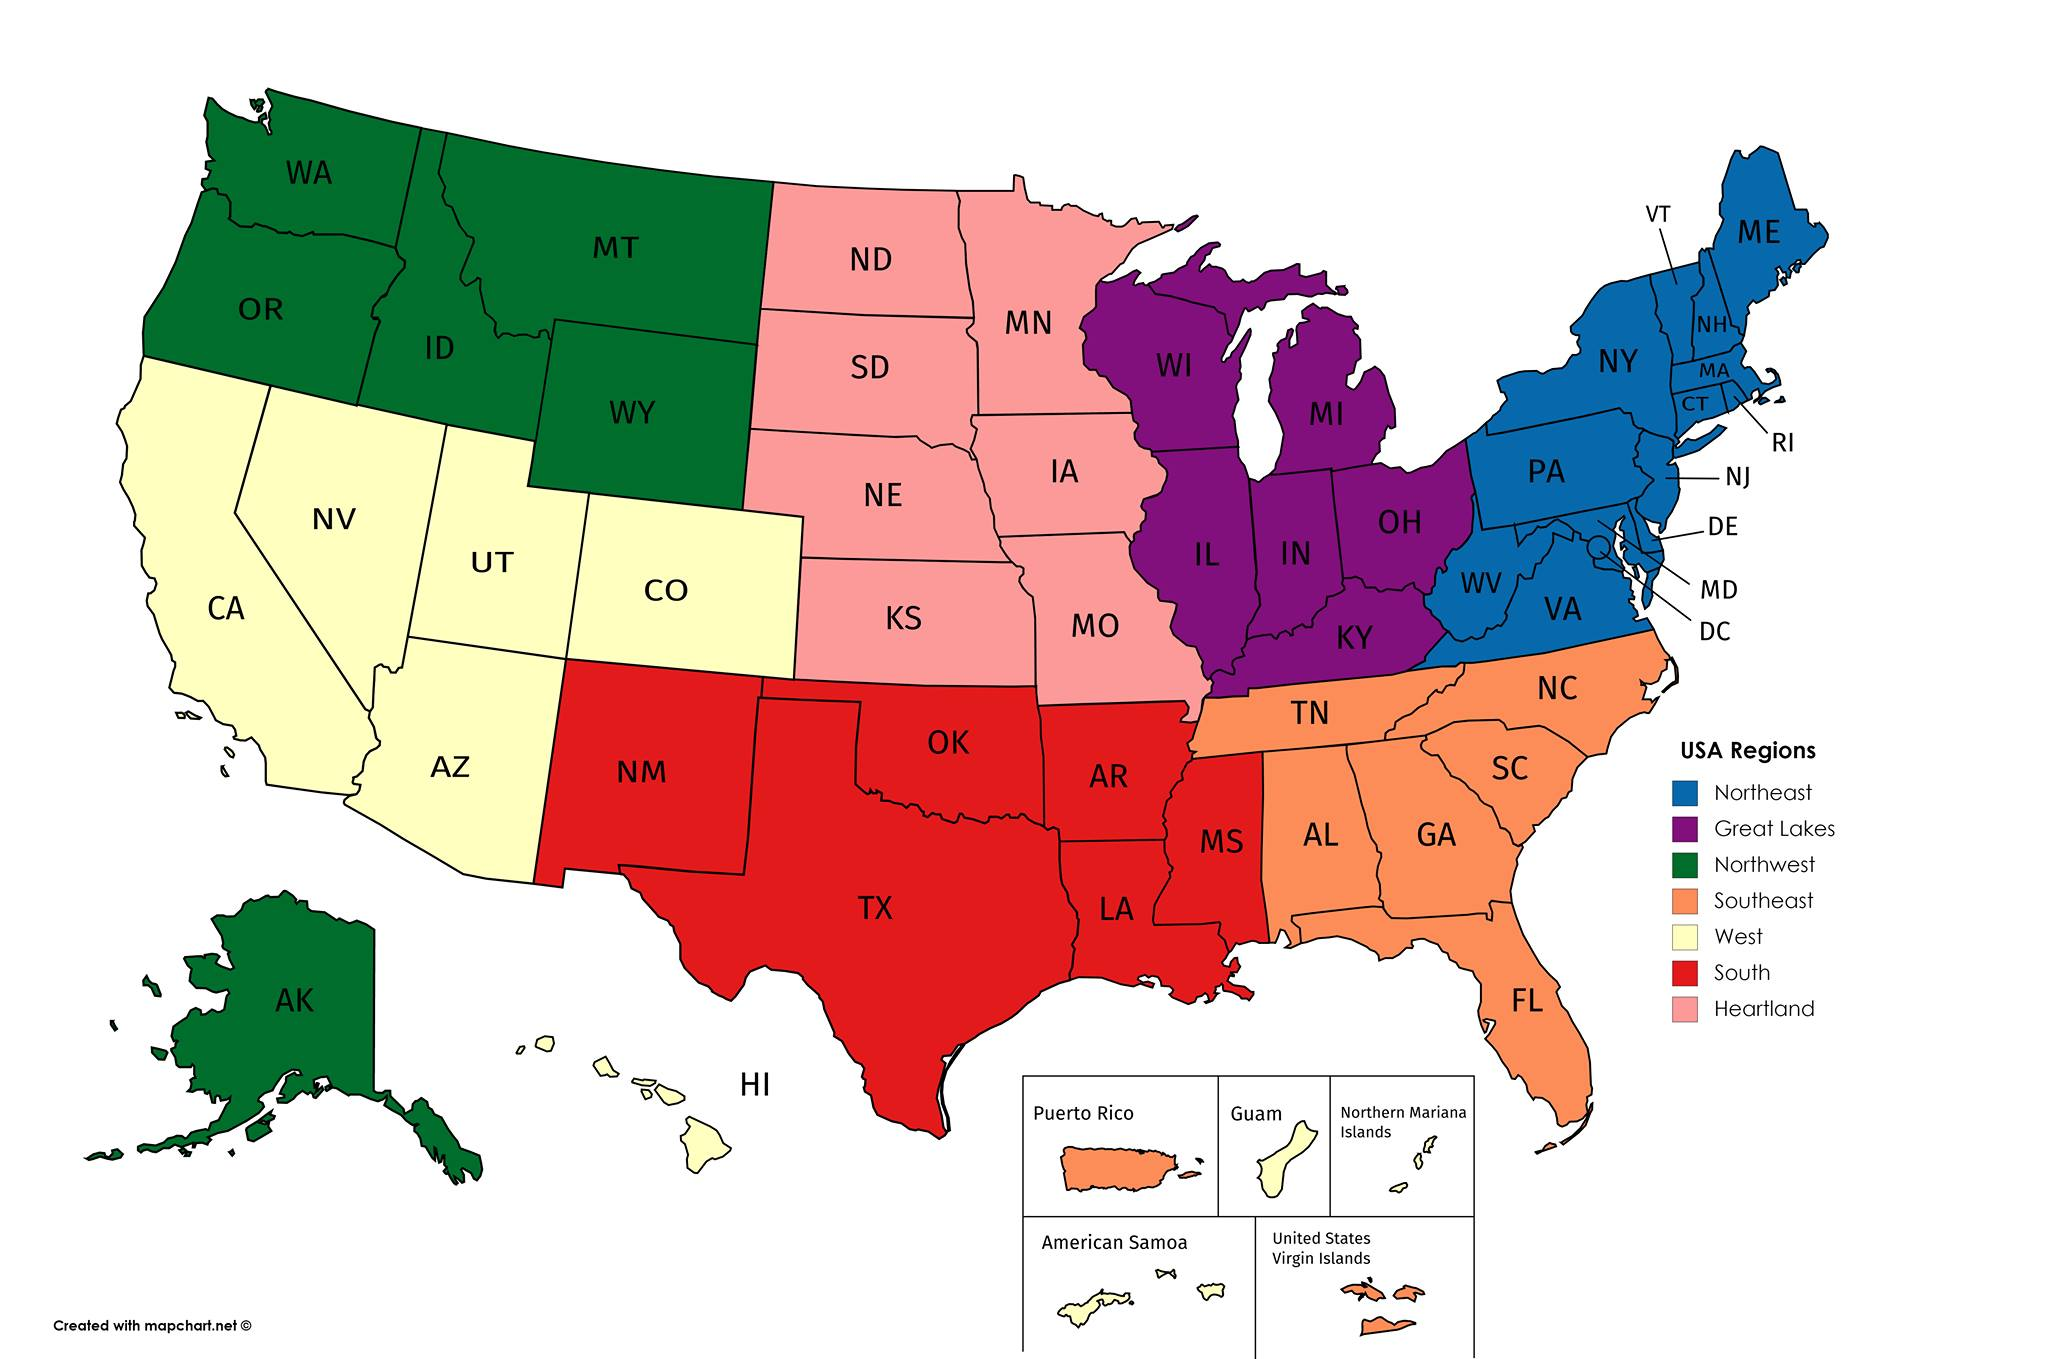
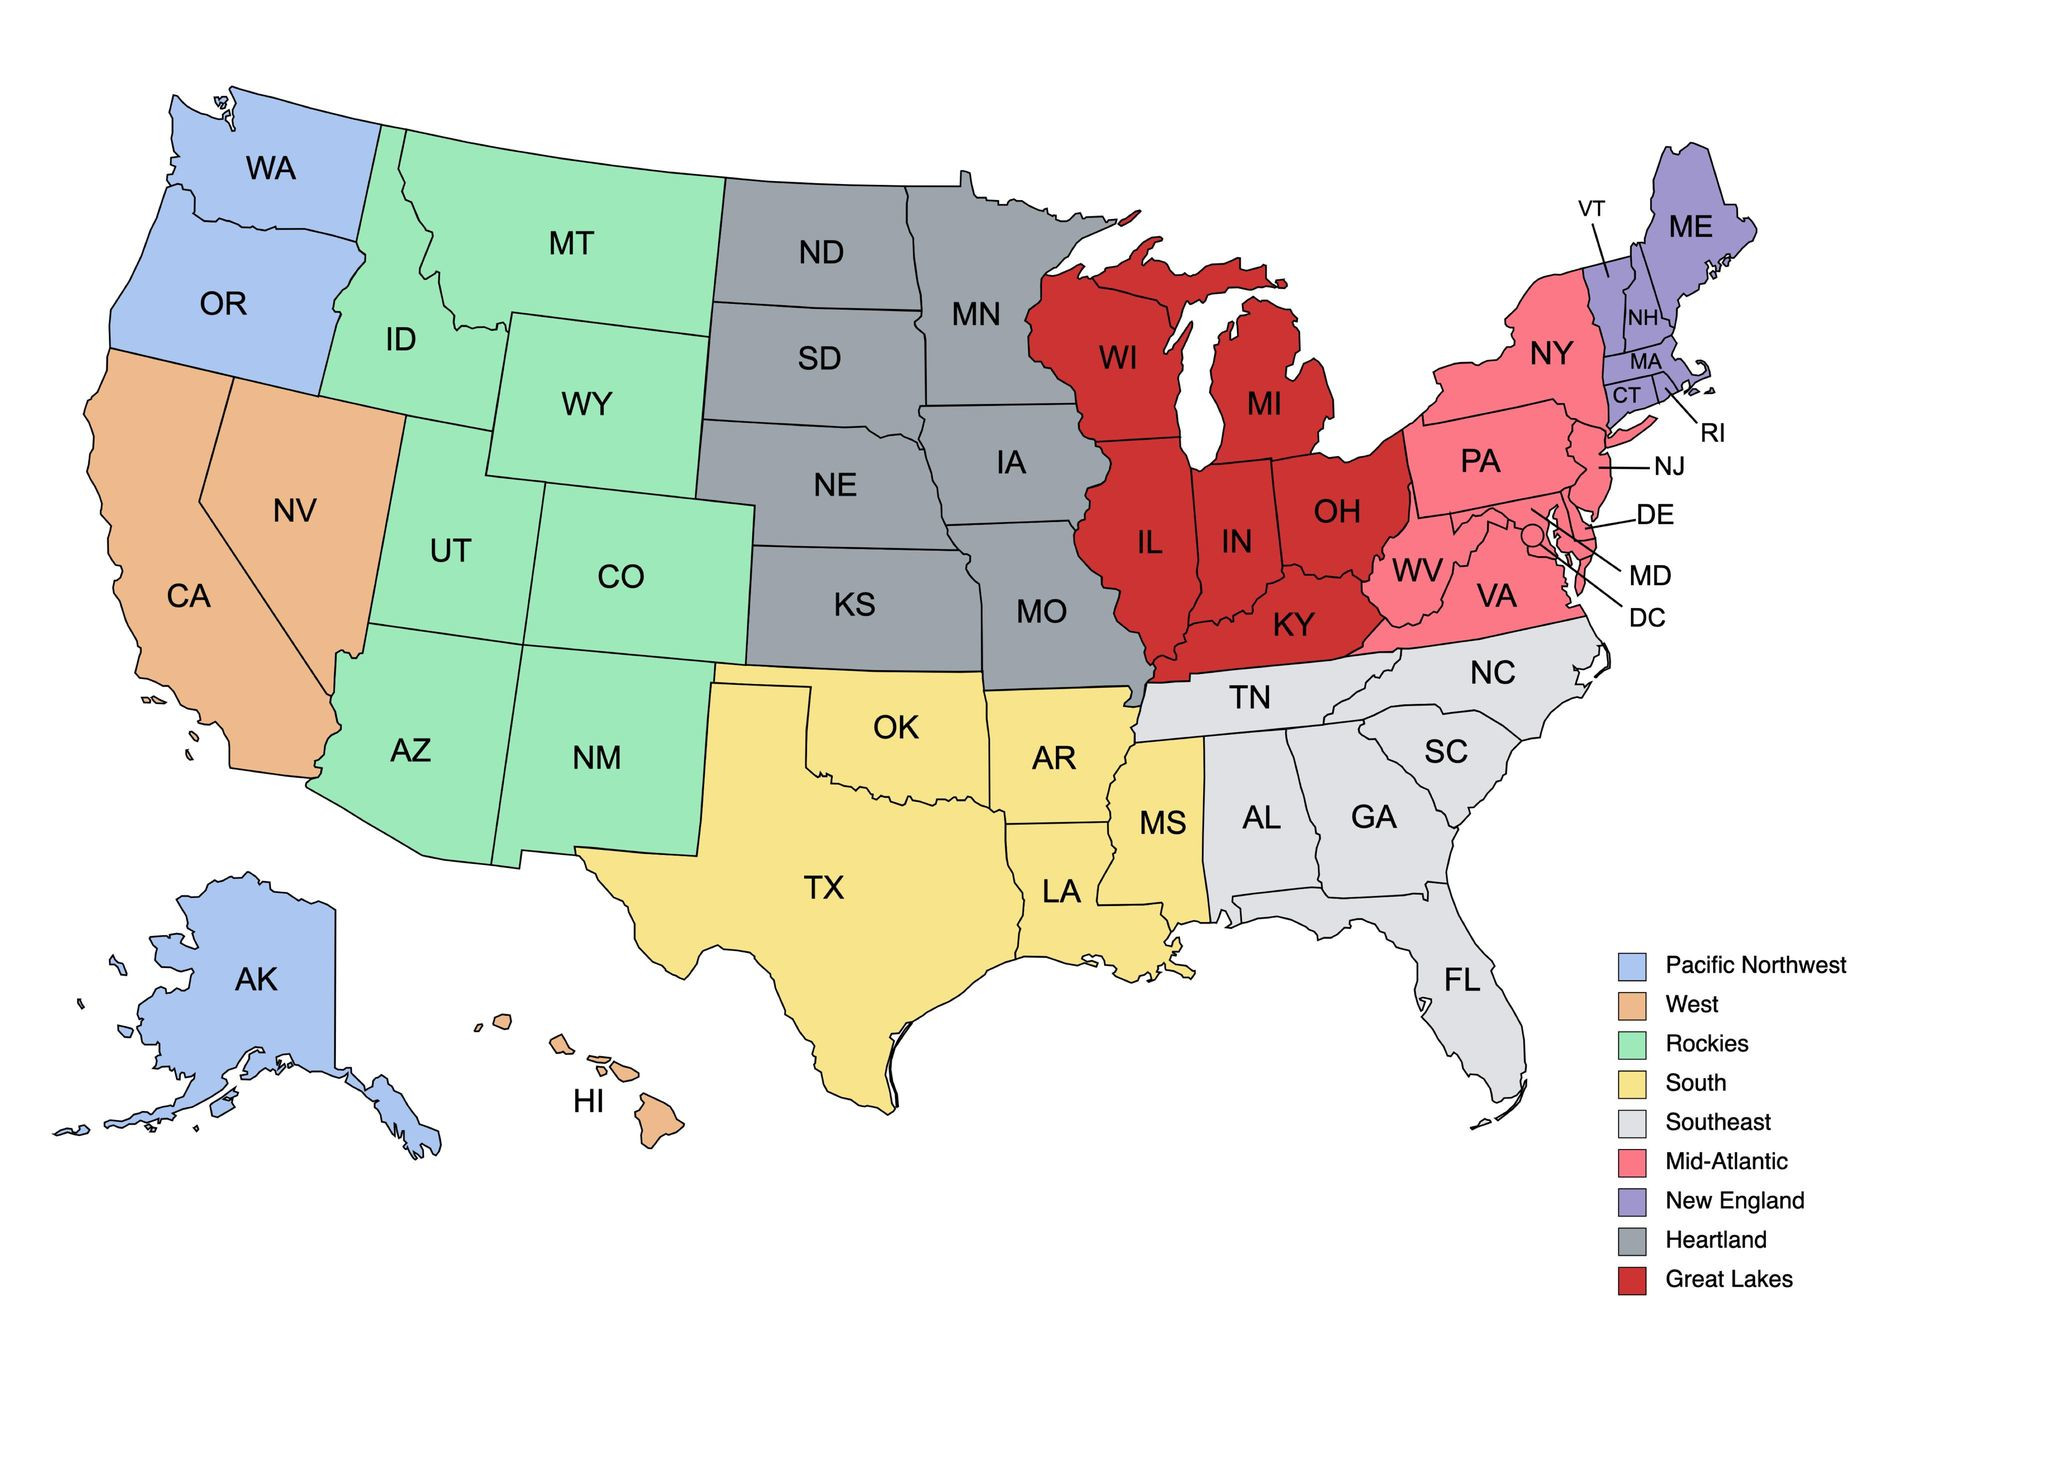
Update regions for regional championships.

diff --git a/app/templates/regional.html b/app/templates/regional.html
@@ -17,13 +17,10 @@
         <div class="card-body main-card">
           <h1 class="card-title">CubingUSA Regional Championships</h1>
           <div class="card-text">
-            <p>In addition to CubingUSA Nationals, CubingUSA supports the organization of seven <strong>Regional Championships</strong> each year.  These competitions aim to provide competitors throughout the US with a high-quality, large competition experience, and to recognize the top competitors throughout the country.
-              <a class="mobile-only"
-                 data-toggle="collapse"
-                 href="#moreRegionalsInfo"
-                 role="button">Read More...</a>
+            <p><strong>New in 2023:</strong>We updated our CubingUSA regions! Take a look at the new map for full details.</p>
+            <p>In addition to CubingUSA Nationals, CubingUSA supports the organization of nine <strong>Regional Championships</strong> each year.  These competitions aim to provide competitors throughout the US with a high-quality, large competition experience, and to recognize the top competitors throughout the country.
             </p>
-            <div class="desktop-only" id="moreRegionalsInfo">
+            <div>
               <p>Just like CubingUSA Nationals, our Regional Championships are open to all competitors.  However, the title of Regional Champion will be awarded to the top-ranked competitor who lives in that region.  In order to be eligible to win a title, you need to <a href="/login">log in</a> to the CubingUSA website with your WCA account and <a href="/edit">select</a> your home state before the competition. See the <a href="/regional/title_policy">Regional Title Policy</a> for full details, and please <a href="/about/contact">contact</a> us if you have any questions about what state you can represent.</p>
               {% if regions_missing_championships %}
                 <p>We're still working to finalize the location and dates of this year's championships.  Please check back here for details!</p>

diff --git a/app/templates/index.html b/app/templates/index.html
@@ -48,7 +48,7 @@
           <img class="card-img-top" src="/static/img/cubingUSA_4.svg" alt="Regional Championships">
           <div class="card-body">
             <h4 class="card-title">Regional Championships</h4>
-            <p class="card-text">Each year, we host seven Regional Championships across the country, allowing lots of different cubers a chance to compete for a title.</p>
+            <p class="card-text">Each year, we host nine Regional Championships across the country, allowing lots of different cubers a chance to compete for a title.</p>
             <a href="/regional" class="button">Learn More</a>
           </div>
         </div>

diff --git a/app/scss/_variables.scss b/app/scss/_variables.scss
@@ -1,9 +1,12 @@
 $region-colors: (
-  "gl": purple,
+  "gl": #cd3333,
   "ne": cornflowerblue,
-  "hl": salmon,
-  "nw": seagreen,
-  "w": gold,
-  "s": crimson,
-  "se": orange,
+  "hl": #9da4ac,
+  "nw": #abc6f1,
+  "w": #eeb98d,
+  "s": #f8e48b,
+  "se": #e0e1e5,
+  "nwe": #9f96cd,
+  "ro": #9de9ba,
+  "ma": #fc7886,
 );

diff --git a/app/handlers/regional.py b/app/handlers/regional.py
@@ -26,7 +26,7 @@ def regional():
     championships.sort(key=lambda championship: championship.competition.get().start_date)
     championship_regions = [championship.region for championship in championships]
     regions_missing_championships = [
-        region for region in regions if region.key not in championship_regions]
+        region for region in regions if region.key not in championship_regions and not region.obsolete]
 
     return render_template('regional.html',
                            c=common.Common(wca_disclaimer=True),

diff --git a/app/models/region.py b/app/models/region.py
@@ -3,6 +3,7 @@ from google.cloud import ndb
 class Region(ndb.Model):
   name = ndb.StringProperty()
   championship_name = ndb.StringProperty()
+  obsolete = ndb.BooleanProperty()
 
   def CssClass(self):
     return 'region-%s' % self.key.id()
